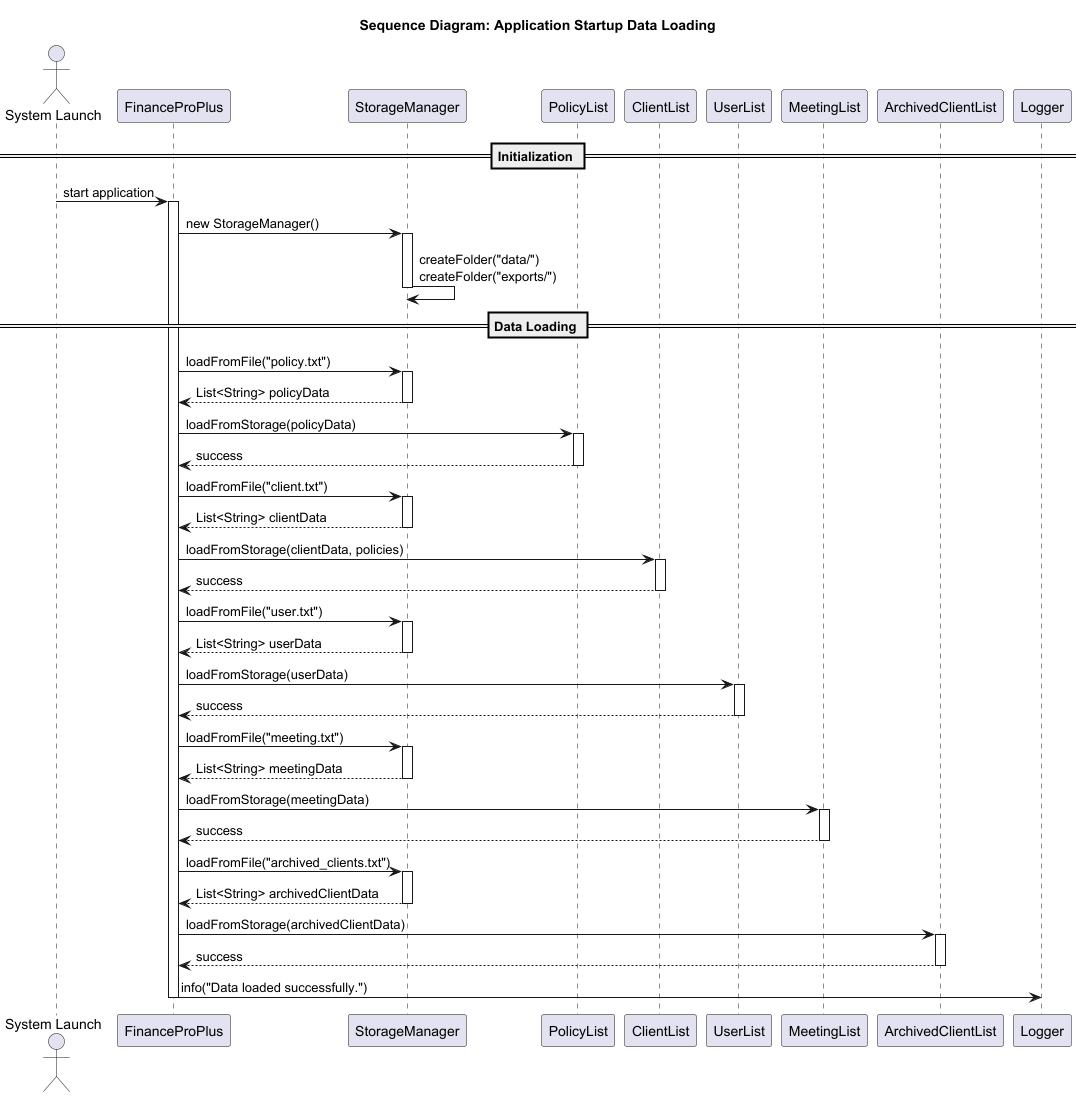
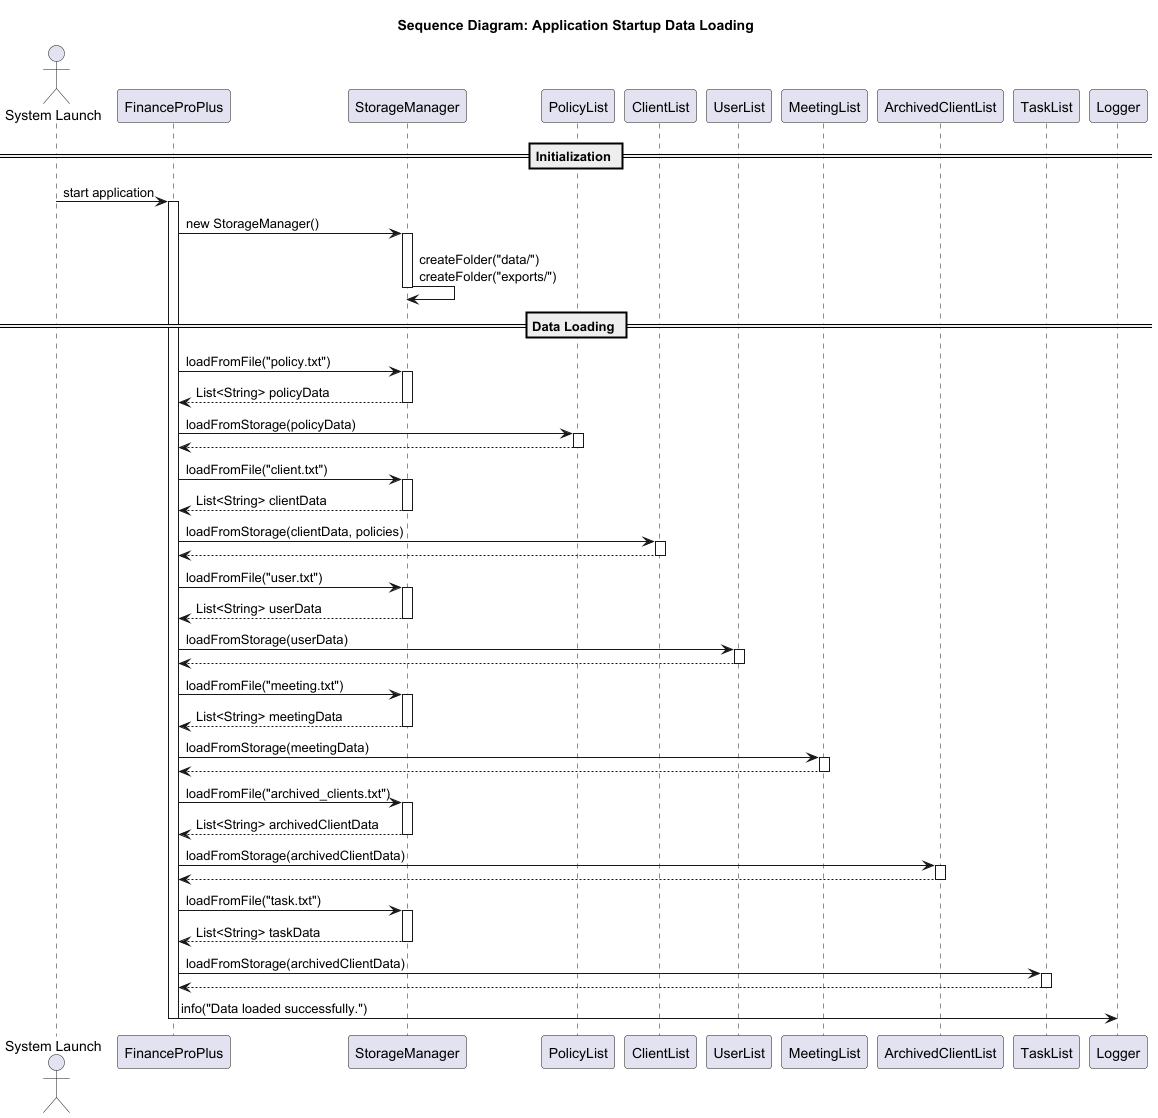
Developer Guide for Storage object

diff --git a/docs/DeveloperGuide.md b/docs/DeveloperGuide.md
@@ -26,20 +26,22 @@ The App is consisted of the following four components:
 
 ### Storage Component
 
-The **StorageManager** class is responsible for all file operations in the application, including reading, writing, and exporting data. It ensures that user data, client data, archived clients, policies, and meeting records are automatically persisted to disk after every command execution minimizing data loss risks even during unexpected shutdowns.
+The **StorageManager** class is responsible for all file operations in the application, including reading, writing, and exporting data.  
+It ensures that user data, client data, archived clients, tasks, policies, and meeting records are automatically persisted to disk after every command execution  minimizing data loss risks even during unexpected shutdowns.
 
 ![Storage Component Autosave Sequence](./umldiagrams/Storage.png)
 
 #### Design Overview
-The `FinanceProPlus` class directly manages the autosave feature by calling the `saveAllData()` method after every command execution. This design ensures that all updates made during runtime are immediately written to disk, without requiring explicit user action to save.
+The `FinanceProPlus` class manages the autosave feature through its `saveAllData()` method, which is triggered after each executed command.  
+This guarantees that all updates made during runtime  including new tasks, meetings, or clients — are immediately written to disk without requiring explicit user action to save.
 
-Each dataset (User, Client, ArchivedClient, Policy, and Meeting) is stored in both:
-- **Text format** (`.txt`) – for internal data recovery and reloading.
-- **CSV format** (`.csv`) – for easier external analysis (e.g., Excel viewing).
+Each dataset (User, Client, ArchivedClient, Policy, Meeting, and Task) is stored in both:
+- **Text format** (`.txt`) – for reliable internal persistence and reloading.
+- **CSV format** (`.csv`) – for user-friendly export and analysis.
 
-These files are located in:
-- `data/` — persistent program storage
-- `exports/` — user-friendly exported CSVs
+All saved data resides within two primary directories:
+- `data/` — used for internal save and load operations.
+- `exports/` — used for external CSV exports (e.g., viewing in Excel).
 
 #### Key Data Files
 | Data Type | Text File | CSV File |
@@ -49,7 +51,7 @@ These files are located in:
 | Archived Clients | `archived_clients.txt` | `archived_clients.csv` |
 | Policy | `policy.txt` | `policy.csv` |
 | Meeting | `meeting.txt` | `meeting.csv` |
-
+| Task | `task.txt` | `task.csv` |
 #### Workflow Description (Autosave)
 1. After the user enters a command, `Parser.parse()` creates a `Command` object.
 2. The command executes and updates the respective data list(s).
@@ -80,6 +82,7 @@ On startup, the `FinanceProPlus` constructor initializes the `StorageManager` an
 - **UserList**
 - **MeetingList**
 - **ArchivedClientList**
+- **TaskList**
 
 If any file is missing or unreadable, the app logs the issue but continues loading other data, ensuring robust operation even with partial data.
 
@@ -92,6 +95,7 @@ If any file is missing or unreadable, the app logs the issue but continues loadi
     - `user.loadFromStorage(storage.loadFromFile("user.txt"));`
     - `meetings.loadFromStorage(storage.loadFromFile("meeting.txt"));`
     - `archivedClients.loadFromStorage(storage.loadFromFile("archived_clients.txt"));`
+    - `tasks.loadFromStorage(storage.loadFromFile("task.txt"));`
 4. Each list reconstructs its objects from text lines.
 5. `Logger.info("Data loaded successfully.")` confirms successful initialization.
 
